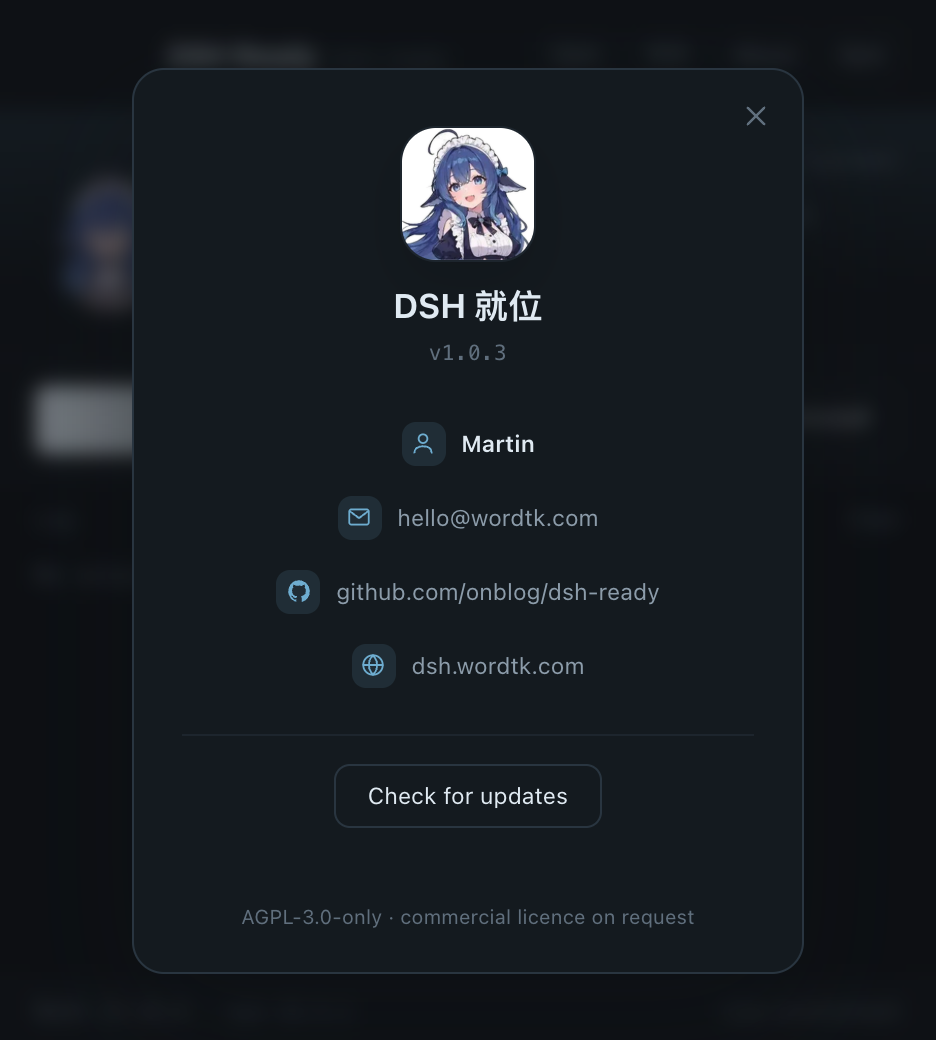
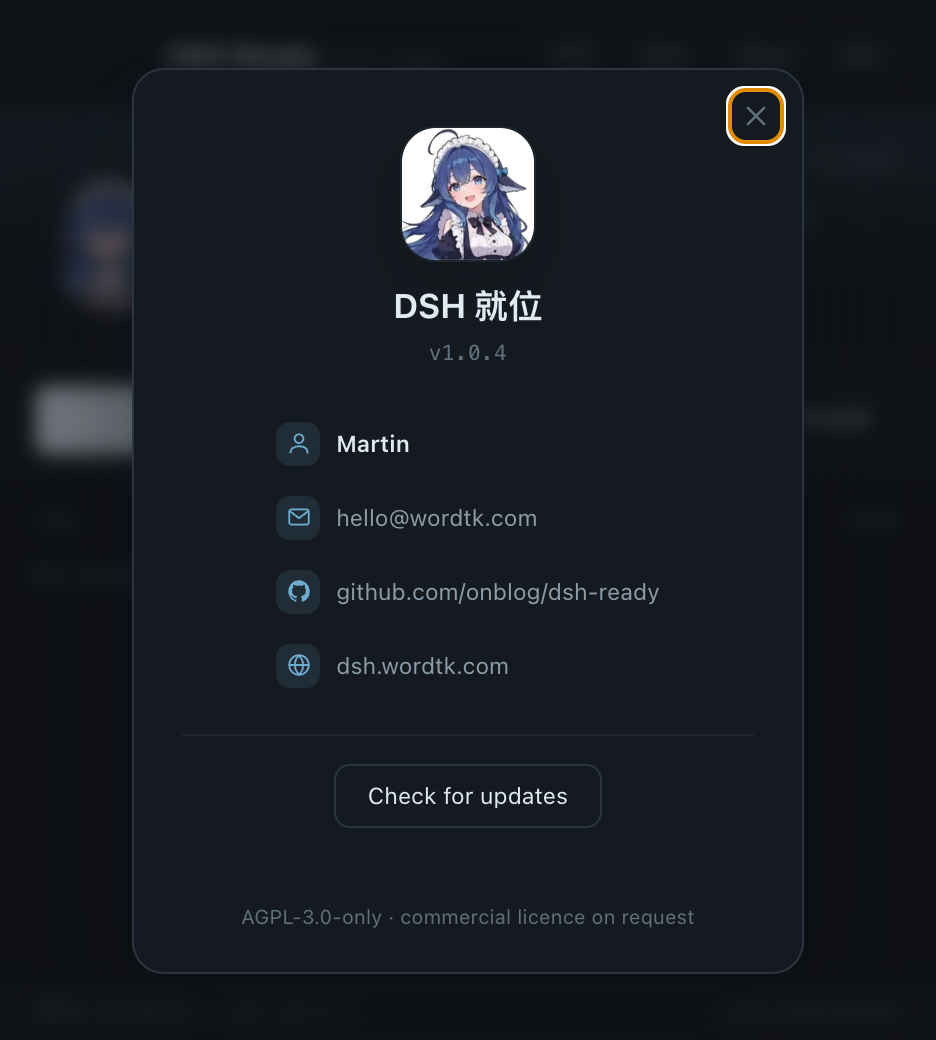
feat(ui): link Martin to GitHub and add sponsor entry

diff --git a/renderer/styles.css b/renderer/styles.css
@@ -1104,8 +1104,11 @@ body:is([data-status='starting'], [data-status='installing'], [data-status='upgr
 .about-list {
   display: flex;
   flex-direction: column;
+  align-items: stretch;
+  width: fit-content;
+  max-width: 100%;
   gap: 5px;
-  margin: 0 0 18px;
+  margin: 0 auto 18px;
   padding: 0;
   list-style: none;
 }
@@ -1113,7 +1116,7 @@ body:is([data-status='starting'], [data-status='installing'], [data-status='upgr
 .about-list li {
   display: flex;
   align-items: center;
-  justify-content: center;
+  justify-content: flex-start;
   gap: 8px;
   padding: 5px 6px;
   font-size: 11.5px;
@@ -1156,6 +1159,11 @@ body:is([data-status='starting'], [data-status='installing'], [data-status='upgr
   color: var(--accent);
   text-decoration: underline;
   text-underline-offset: 2px;
+}
+
+.about-link.about-name {
+  color: var(--ink);
+  font-weight: 600;
 }
 
 .about-update {

diff --git a/site/public/index.html b/site/public/index.html
@@ -428,6 +428,14 @@
           ><span data-i18n="footer.issues">反馈</span></a
         >
       </div>
+      <a class="footer__sponsor" href="https://github.com/onblog" target="_blank" rel="noreferrer">
+        <svg viewBox="0 0 24 24" fill="none" stroke="currentColor" stroke-width="1.6" stroke-linecap="round" aria-hidden="true">
+          <path d="M4 8h12v6a4 4 0 0 1-4 4H8a4 4 0 0 1-4-4V8Z" />
+          <path d="M16 9h1.5a2.5 2.5 0 0 1 0 5H16" />
+          <path d="M7 3.5c-.6.8-.6 1.7 0 2.5M11 3.5c-.6.8-.6 1.7 0 2.5" />
+        </svg>
+        <span data-i18n="footer.sponsor">请我喝杯咖啡</span>
+      </a>
       <p class="footer__legal" data-i18n="footer.legal">
         第三方项目，与 DeepSeek 官方无关。代码以 AGPL-3.0-only 授权，商业用途需另行授权。
       </p>

diff --git a/renderer/app.js b/renderer/app.js
@@ -50,6 +50,7 @@ const els = {
   aboutClose: $('aboutClose'),
   aboutVersion: $('aboutVersion'),
   aboutEmail: $('aboutEmail'),
+  aboutMartin: $('aboutMartin'),
   aboutGithub: $('aboutGithub'),
   aboutSite: $('aboutSite'),
   updateBtn: $('updateBtn'),
@@ -931,6 +932,7 @@ els.about.addEventListener('click', (event) => {
   if (event.target === els.about) closeAbout()
 })
 els.aboutEmail.addEventListener('click', () => openExternal(`mailto:${appInfo?.developer?.email || ''}`))
+els.aboutMartin.addEventListener('click', () => openExternal(appInfo?.developer?.github))
 els.aboutGithub.addEventListener('click', () => openExternal(appInfo?.github))
 els.aboutSite.addEventListener('click', () => openExternal(appInfo?.site))
 els.updateBtn.addEventListener('click', () => checkUpdates())

diff --git a/site/public/styles.css b/site/public/styles.css
@@ -925,6 +925,34 @@ section {
   color: #fff;
 }
 
+.footer__sponsor {
+  display: inline-flex;
+  align-items: center;
+  gap: 8px;
+  padding: 9px 16px;
+  margin: 0 0 20px;
+  border: 1px solid rgba(255, 212, 121, 0.42);
+  border-radius: 999px;
+  background: rgba(255, 212, 121, 0.1);
+  color: var(--gold);
+  font-size: 13.5px;
+  font-weight: 600;
+  transition: background 160ms ease, border-color 160ms ease, transform 160ms ease;
+}
+
+.footer__sponsor svg {
+  width: 15px;
+  height: 15px;
+  flex: none;
+}
+
+.footer__sponsor:hover {
+  border-color: rgba(255, 212, 121, 0.72);
+  background: rgba(255, 212, 121, 0.18);
+  color: var(--gold);
+  transform: translateY(-1px);
+}
+
 .footer__legal {
   margin: 0;
   max-width: 78ch;

diff --git a/site/public/app.js b/site/public/app.js
@@ -131,6 +131,7 @@ const messages = {
     'footer.docs': '文档',
     'footer.stats': '使用数据',
     'footer.issues': '反馈',
+    'footer.sponsor': '请我喝杯咖啡',
     'footer.legal':
       '第三方项目，与 DeepSeek 官方无关。代码以 AGPL-3.0-only 授权，商业用途需另行授权。',
   },
@@ -257,6 +258,7 @@ const messages = {
     'footer.docs': 'Docs',
     'footer.stats': 'Usage data',
     'footer.issues': 'Issues',
+    'footer.sponsor': 'Buy me a coffee',
     'footer.legal':
       'A third-party project, not affiliated with DeepSeek. Licensed AGPL-3.0-only; commercial use requires a separate licence.',
   },

diff --git a/renderer/i18n.js b/renderer/i18n.js
@@ -13,6 +13,7 @@
       'quit.aria': '退出 DSH 就位',
       'about.button': '关于',
       'about.aria': '关于 DSH 就位',
+      'about.martinAria': '打开 Martin 的 GitHub 主页',
       'about.check': '检测更新',
       'about.checking': '正在检查…',
       'about.latest': '已是最新版本',
@@ -179,6 +180,7 @@
       'quit.aria': 'Quit DSH Ready',
       'about.button': 'About',
       'about.aria': 'About DSH Ready',
+      'about.martinAria': 'Open Martin GitHub profile',
       'about.check': 'Check for updates',
       'about.checking': 'Checking…',
       'about.latest': "You're up to date",

diff --git a/renderer/index.html b/renderer/index.html
@@ -39,7 +39,7 @@
           <span class="about-ico" aria-hidden="true">
             <svg viewBox="0 0 24 24" fill="none" stroke="currentColor" stroke-width="1.7" stroke-linecap="round"><circle cx="12" cy="8" r="4"/><path d="M4 21c0-4 3.6-6 8-6s8 2 8 6"/></svg>
           </span>
-          <b class="about-name">Martin</b>
+          <button id="aboutMartin" class="about-link about-name" type="button" data-i18n-aria="about.martinAria" aria-label="打开 Martin 的 GitHub 主页">Martin</button>
         </li>
         <li>
           <span class="about-ico" aria-hidden="true">

diff --git a/docs/en/design.md b/docs/en/design.md
@@ -225,6 +225,8 @@ macOS Apple Silicon (arm64), macOS Intel (x64) and Windows (x64).
   `src/index.js`.
 - **One theme.** The site lives in the whale-blue palette and has no light/dark
   toggle: a second palette dilutes the "one lamp in the deep sea" look.
+- **Sponsor button.** The footer adds a "Buy me a coffee" pill after the navigation
+  links; it opens the developer's GitHub profile (github.com/onblog).
 - **Downloads.** `/api/release` exposes the R2 manifest (version, sizes, URLs);
   `/api/download?arch=` streams the object with Range support so the browser can
   fetch 8 chunks in parallel and show real progress.
